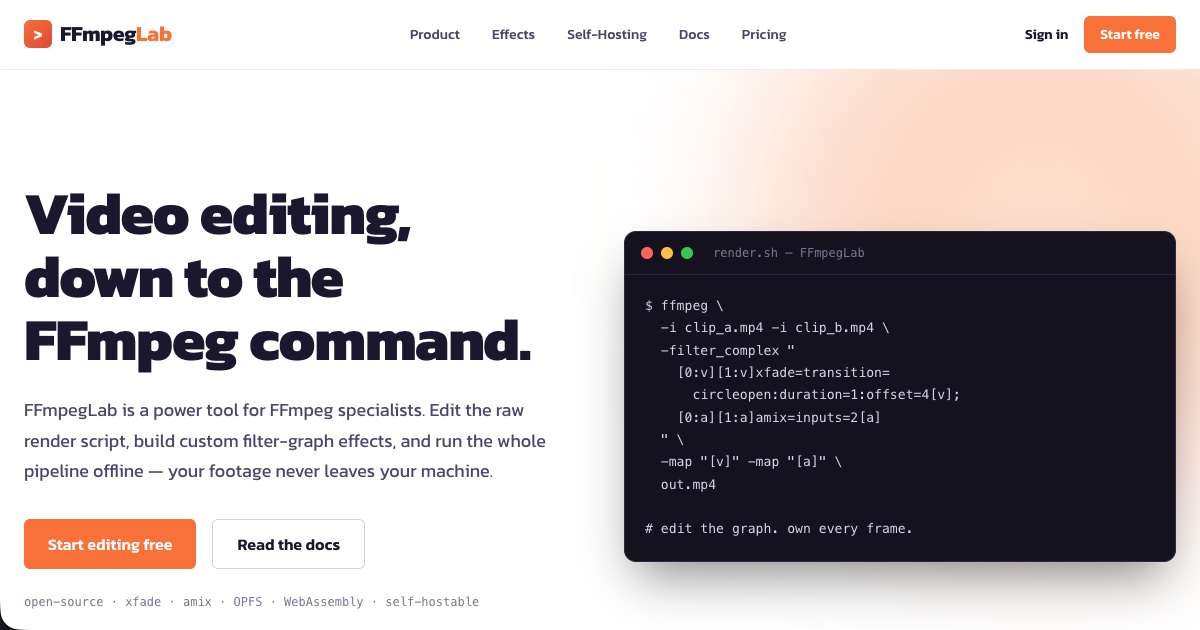
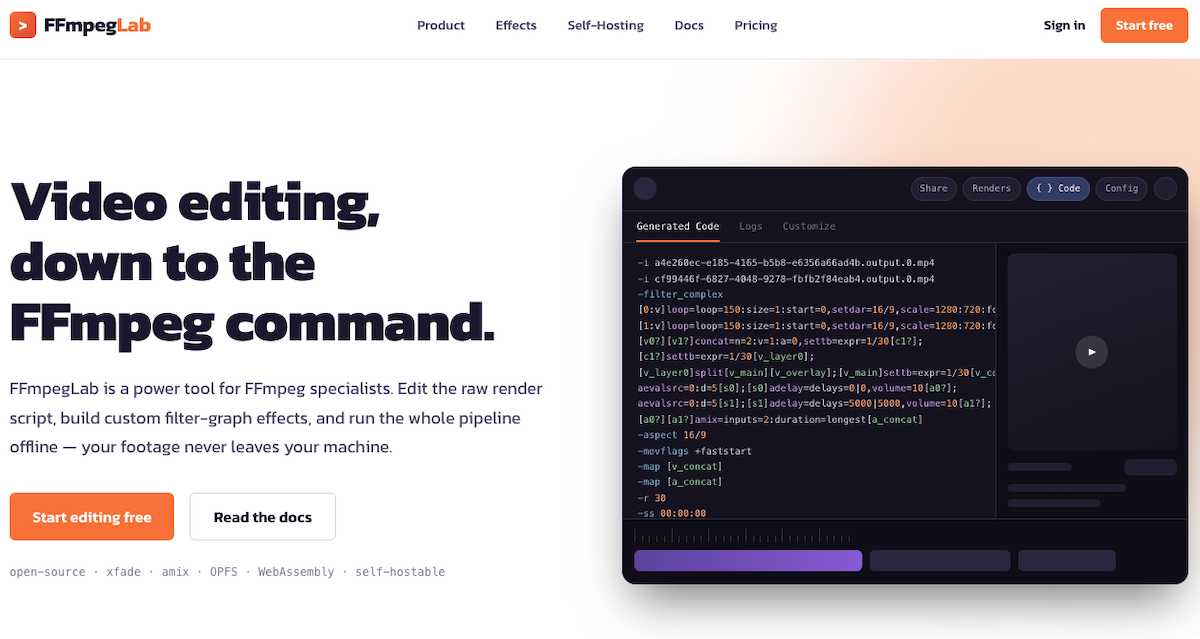
feat/update-og-image

diff --git a/index.html b/index.html
@@ -29,7 +29,7 @@
   <meta property="og:description" content="Video editing, down to the FFmpeg command. Edit the raw render script, build custom xfade/amix effects, and run it all offline — your footage never leaves your machine." />
   <meta property="og:image" content="https://ffmpeglab.com/og-image.png" />
   <meta property="og:image:width" content="1200" />
-  <meta property="og:image:height" content="630" />
+  <meta property="og:image:height" content="639" />
   <meta property="og:image:alt" content="FFmpegLab — the FFmpeg-native video editor" />
 
   <!-- Twitter -->